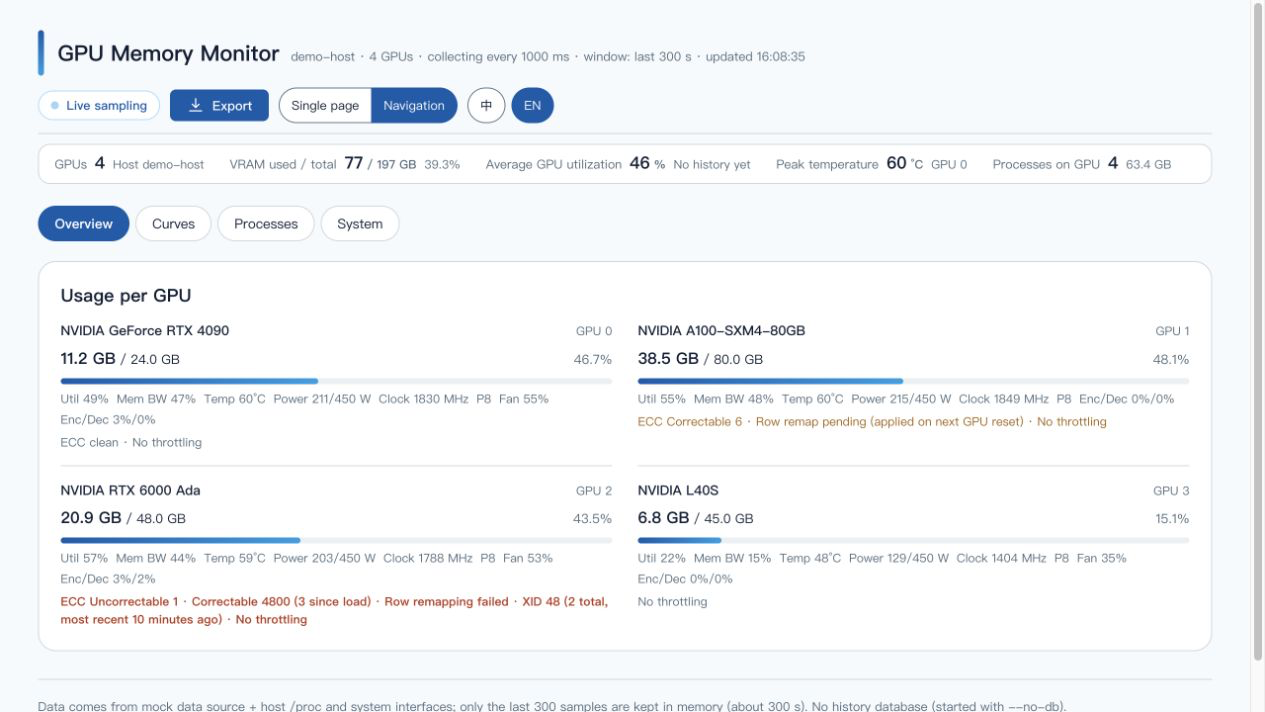
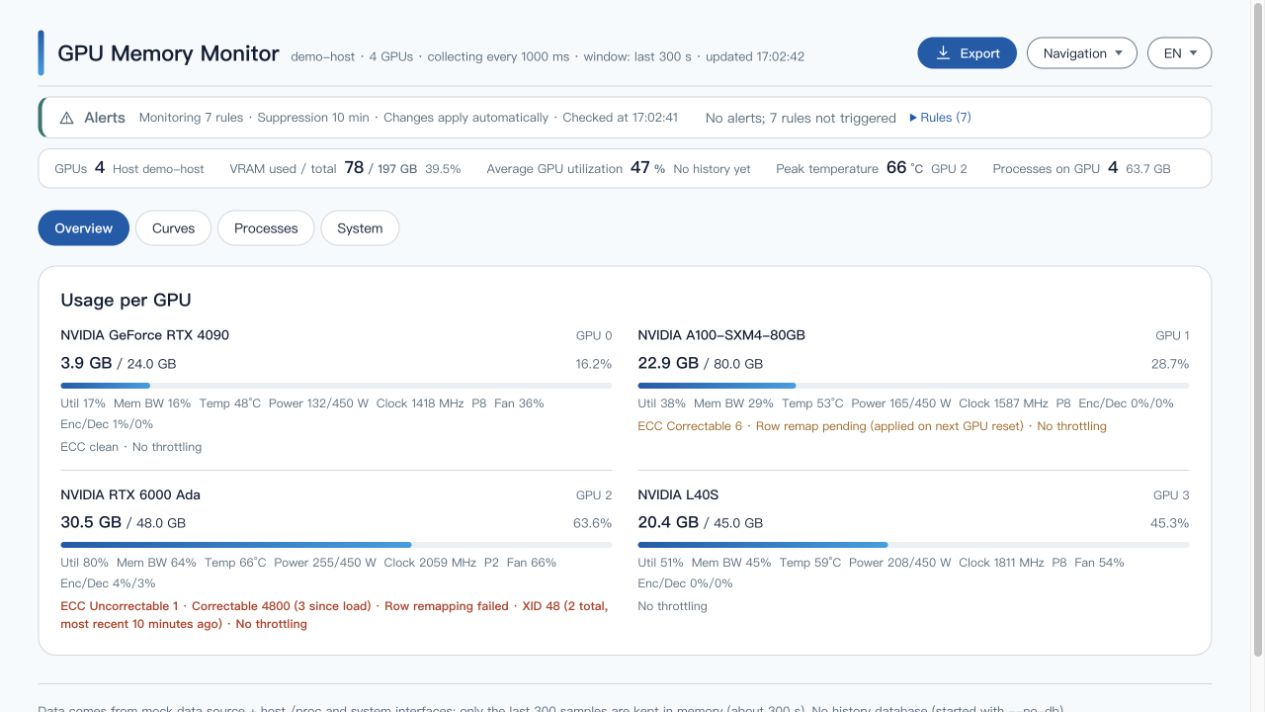
docs: 预览图重拍（顶栏两个下拉改成自绘之后）
四张图按现有取景重新拍：1265×712（与旧图完全一致），--mock 数据、demo-host 主机名，
导航模式那两张停在"总览"页。变化就是这次改过的地方：
- 顶栏三个控件同为胶囊形（导出 / 展示模式 / 界面语言），不再有 44px + 6px 圆角的混搭
- 两个开关是自绘下拉，展开面板是本项目样式（截图里是收起态）
- 正常态不再显示"实时采集中"胶囊

README.en.md 顺带把 "the `中 / EN` switch" 改成 "dropdown"，并说明它是自绘 listbox
（原生 <select> 的展开面板由系统绘制，和页面其余部分不是一套）。

diff --git a/README.en.md b/README.en.md
@@ -42,7 +42,7 @@ Open <http://localhost:8090/>. To deploy it on a server and make it survive rebo
 - **Alerting**: thresholds for VRAM / temperature / throttling / utilisation / host memory / disk / collection outages, including **per-service** rules and hardware-health metrics, with "must hold for N minutes" and cooldown suppression. Channels: **email**, webhook and console
 - **Export**: a single entry point — pick content, layout (the GPU table can be wide: one row per sample, one column group per GPU), time range and options. CSV carries both local time and UTC
 - **History**: SQLite storage (`data/gpu-monitor.db`) survives restarts; the page switches between live / 3d / 7d / 30d / 60d / 90d / all
-- **Bilingual UI (Chinese / English)**: the `中 / EN` switch in the top bar takes effect immediately — no reload, no service restart — and the choice is remembered in local storage. The default follows `navigator.language`; a single link can pin a language with `?lang=en-US` or `#lang=en-US`
+- **Bilingual UI (Chinese / English)**: the `中 / EN` dropdown in the top bar takes effect immediately — no reload, no service restart — and the choice is remembered in local storage. The default follows `navigator.language`; a single link can pin a language with `?lang=en-US` or `#lang=en-US`
 - Also: host metrics (CPU / memory / swap / load / disk / network), SSE push with automatic fallback to polling, idle down-throttling, 90% warning line, and copy-pasteable troubleshooting commands when something breaks
 
 ## Platform support
@@ -70,7 +70,7 @@ The detailed documentation is currently **in Chinese**:
 
 ## Interface language
 
-The `中 / EN` switch in the top bar is the only entry point. Switching re-renders the page in place — including the axis labels drawn on canvas and the hover tooltips.
+The `中 / EN` dropdown in the top bar is the only entry point (like the display-mode dropdown next to it, it is a hand-rolled listbox rather than a native `<select>`, so the open panel matches the rest of the UI). Switching re-renders the page in place — including the axis labels drawn on canvas and the hover tooltips.
 
 - **Precedence**: explicit URL parameter (`?lang=` / `#lang=`) → last choice (`localStorage`) → `navigator.language` → Chinese
 - **Adding strings**: add a key to `public/i18n/zh-CN.js` and the same key to `en-US.js`. Both catalogs must stay key-for-key identical, placeholders (`{name}`) included; `node tools/smoke-test.mjs` verifies that, and also catches keys used in code but missing from the catalogs
